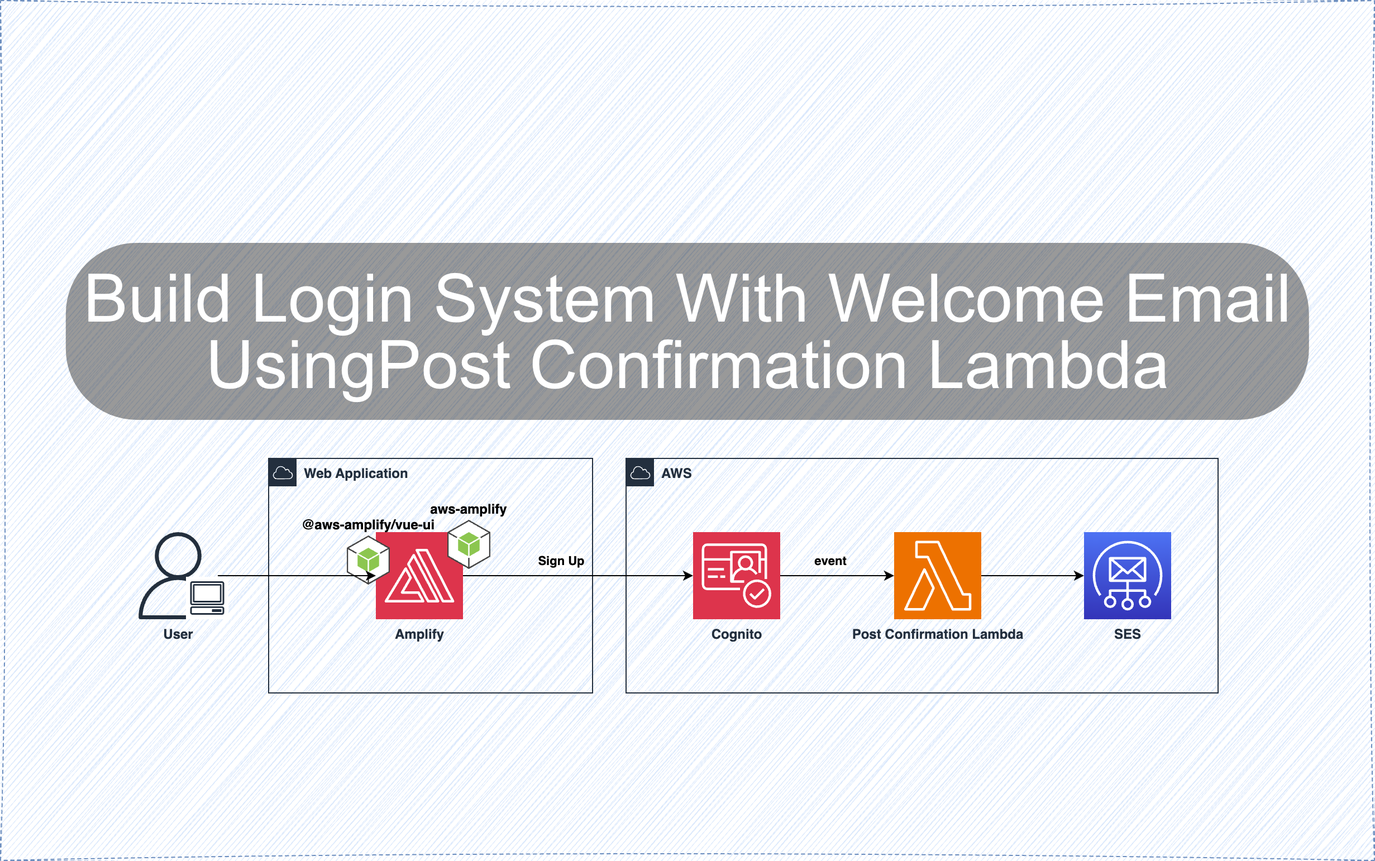
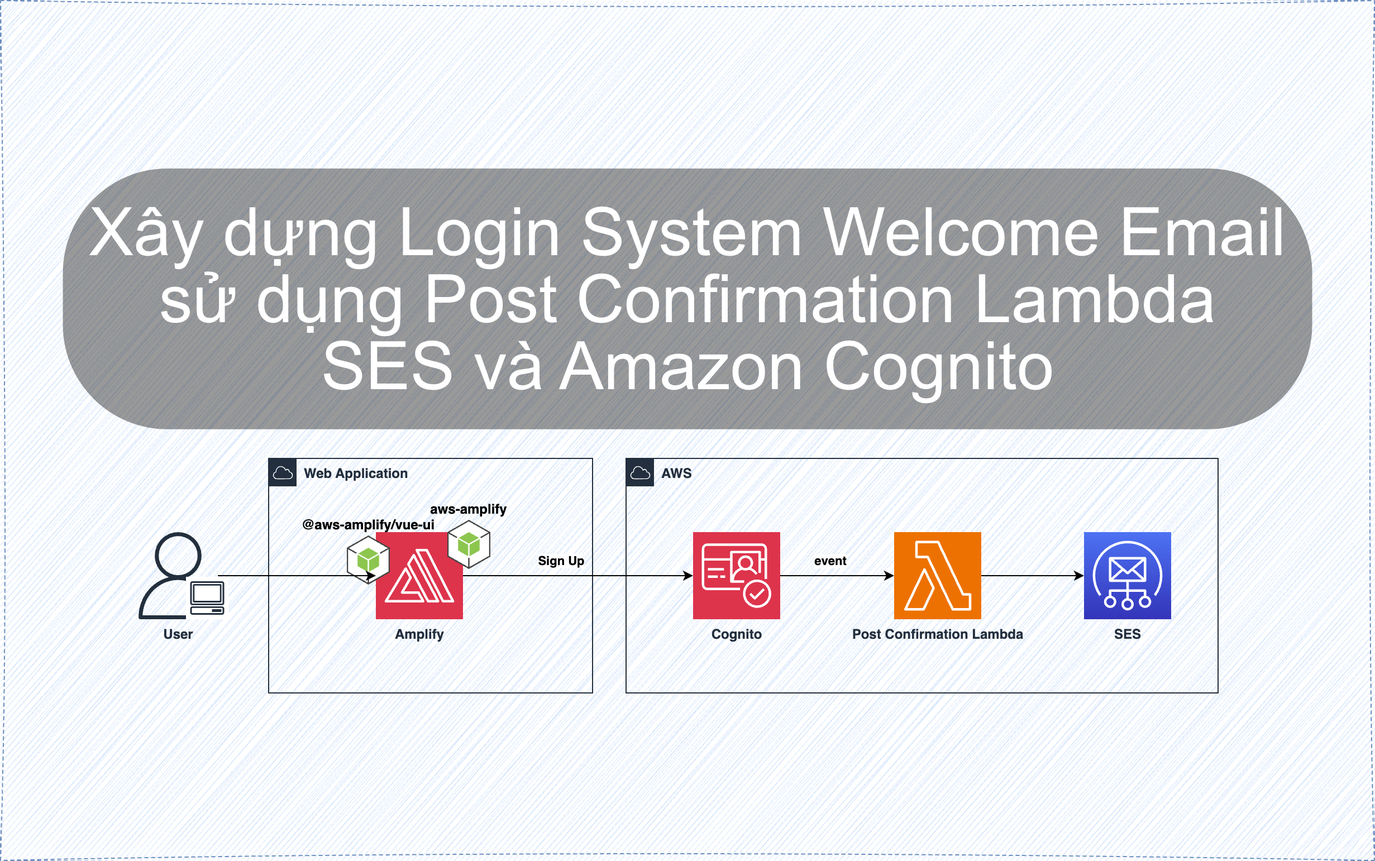
write workshop 1

Changed region(s): [[0.0309, 0.1868, 0.9569, 0.4981], [0.9261, 0.4358, 0.9569, 0.4669], [0.0309, 0.4358, 0.0617, 0.4669]]

diff --git a/content/posts/aws/first-cloud-journey/build-a-login-system-welcome-email.md b/content/posts/aws/first-cloud-journey/build-a-login-system-welcome-email.md
@@ -1,8 +1,8 @@
 ---
-title: "Xây dựng hệ thống đăng nhập xác thực bằng email với Lambda Trigger và Amplify"
+title: "Xây dựng Login System Welcome Email sử dụng Post Confirmation Lambda, SES và Amazon Cognito"
 date: 2024-08-12T06:00:20+06:00
 hero: /images/posts/aws/hero-workshop1.png
-description: "Xây dựng hệ thống đăng nhập xác thực bằng email với Lambda Trigger và Amplify"
+description: "Xây dựng Login System Welcome Email sử dụng Post Confirmation Lambda, SES và Amazon Cognito"
 menu:
   sidebar:
     name: "Workshop Login System with Amplify, Cognito, Lambda and SES"
